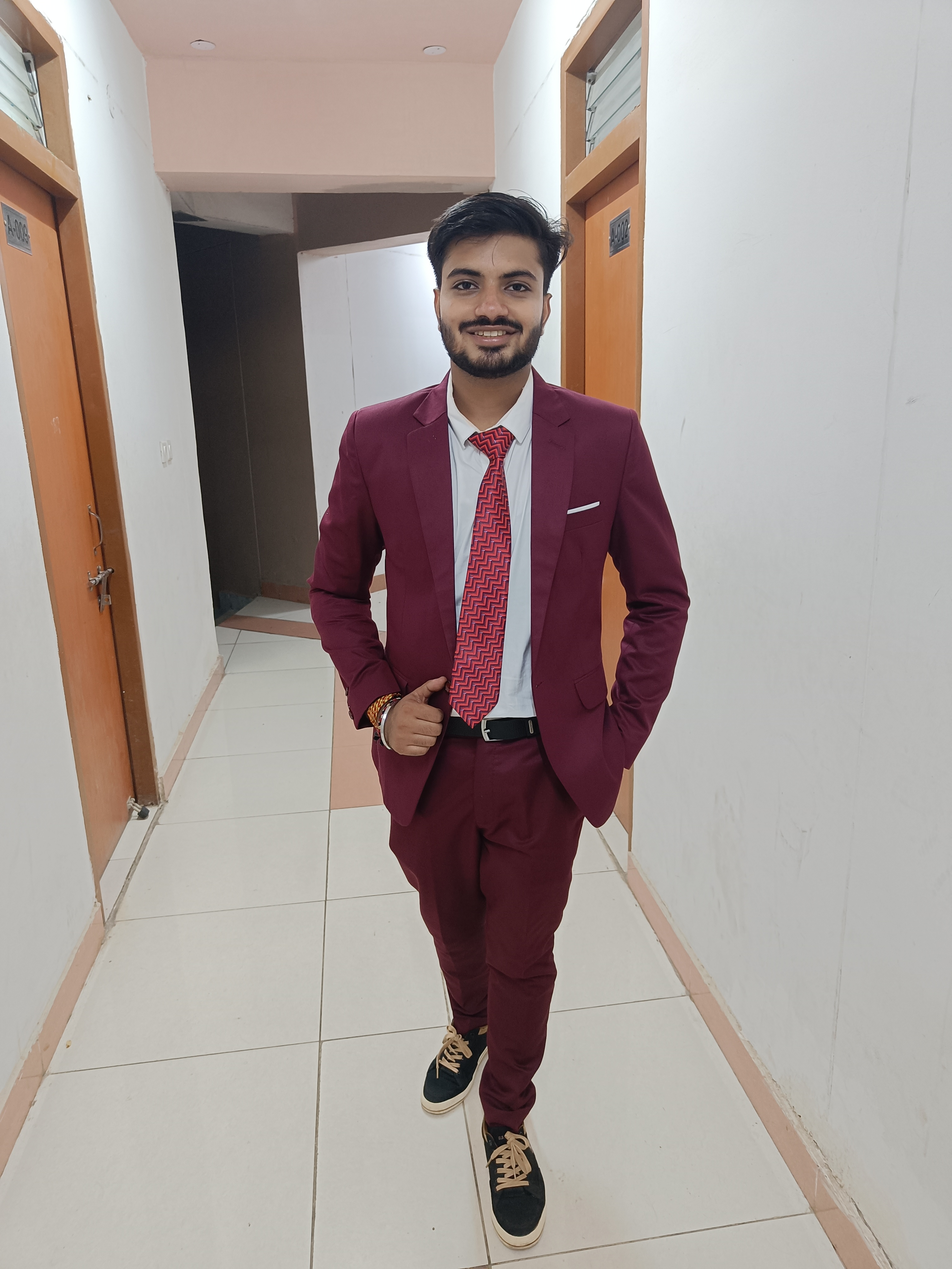
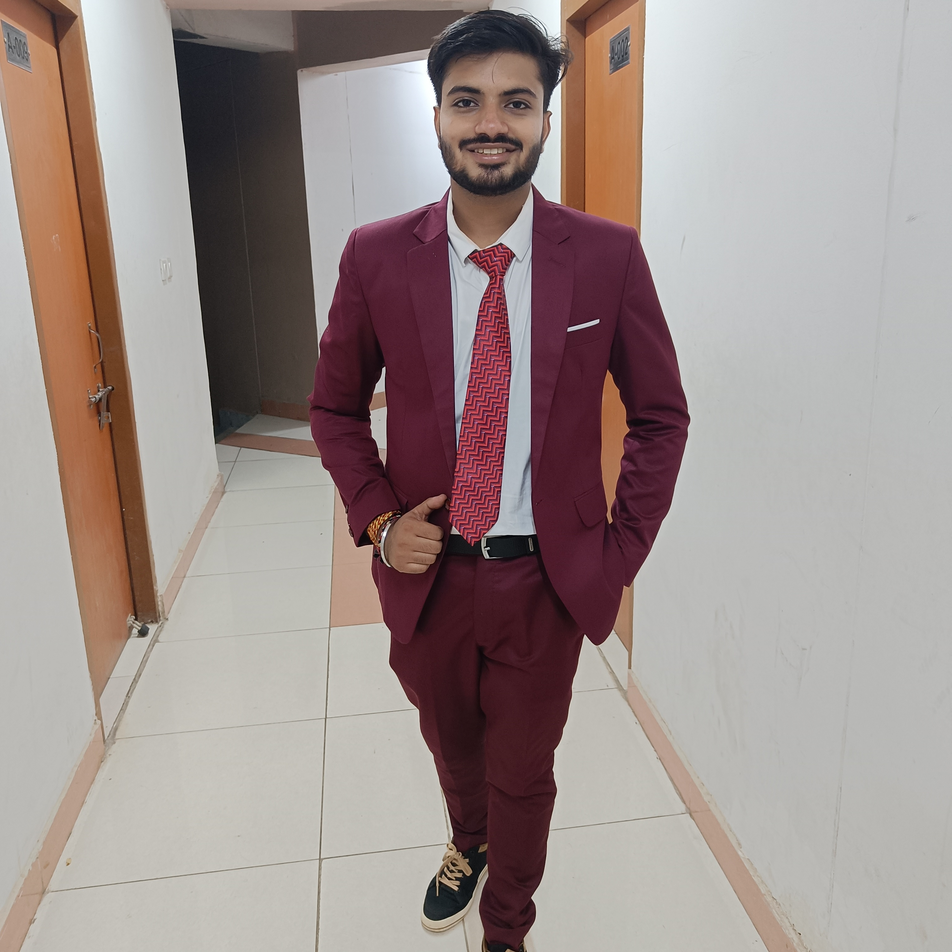
profile pic fixed

diff --git a/developers.html b/developers.html
@@ -276,7 +276,7 @@
         <!--Profile Syahi2-->
         <div class="com-member">
             <div class="picture">
-                <img class="img-fluid" src="img/committee/IMG_20230302_233935_044 - Abhilasha Mishra.jpg" alt="img">
+                <img class="img-fluid" src="img/committee/Abhilasha Mishra.jpg" alt="img">
             </div>
             <div class="card-content">
                 <h3 class="name">Abhilasha</h3>
@@ -318,7 +318,7 @@
         <!--Profile EXOUSIA2-->
         <div class="com-member">
             <div class="picture">
-                <img class="img-fluid" src="img/committee/Screenshot 2023-05-18 at 1.55.32 PM - Mukund Sharma.png" alt="img">
+                <img class="img-fluid" src="img/committee/Mukund Sharma.jpg" alt="img">
             </div>
             <div class="card-content">
                 <h3 class="name">Mukund Sharma</h3>
@@ -342,7 +342,7 @@
         <!--Profile Card PIXXEL-->
         <div class="com-member">
             <div class="picture">
-                <img class="img-fluid" src="img/committee/IMG_7069 - Ankit Kumar (1).jpg" alt="img">
+                <img class="img-fluid" src="img/committee/Ankit Kumar.jpg" alt="img">
             </div>
             <div class="card-content">
                 <h3 class="name">Ankit Kumar</h3>
@@ -384,7 +384,7 @@
         <!--Profile Card Yavanika-->
         <div class="com-member">
             <div class="picture">
-                <img class="img-fluid" src="img/committee/IMG_20230607_003010 - Anurag Das Group.jpg" alt="img">
+                <img class="img-fluid" src="img/committee/Anurag Das Group.jpg" alt="img">
             </div>
             <div class="card-content">
                 <h3 class="name">Anurag Das Group</h3>
@@ -404,7 +404,7 @@
         <!--Profile Yavanika 2-->
         <div class="com-member">
             <div class="picture">
-                <img class="img-fluid" src="img/committee/IMG_20210320_164155_964 - vishesh sahu (1).jpg" alt="img">
+                <img class="img-fluid" src="img/committee/vishesh sahu.jpg" alt="img">
             </div>
             <div class="card-content">
                 <h3 class="name">Vishesh Sahu</h3>
@@ -427,7 +427,7 @@
         <!--Profile Card Hexachrome-->
         <div class="com-member">
             <div class="picture">
-                <img class="img-fluid" src="img/committee/IMG_20230607_004100 - 2101MM17 PRATYUSH MANAS.jpg" alt="img">
+                <img class="img-fluid" src="img/committee/PRATYUSH MANAS.jpg" alt="img">
             </div>
             <div class="card-content">
                 <h3 class="name">Pratyush Manas</h3>
@@ -447,7 +447,7 @@
         <!--Profile ARIA-->
         <div class="com-member">
             <div class="picture">
-                <img class="img-fluid" src="img/committee/IMG_20230607_135500 - Anshu.jpg" alt="img">
+                <img class="img-fluid" src="img/committee/Anshu.jpg" alt="img">
             </div>
             <div class="card-content">
                 <h3 class="name">Anshu Nauwala</h3>
@@ -493,7 +493,7 @@
         <!--Profile Quiz club 2-->
         <div class="com-member">
             <div class="picture">
-                <img class="img-fluid" src="img/committee/20220814_162217 - Siddhant Senapati.jpg" alt="img">
+                <img class="img-fluid" src="img/committee/Siddhant Senapati.jpg" alt="img">
             </div>
             <div class="card-content">
                 <h3 class="name">Siddhant Senapati</h3>
@@ -516,7 +516,7 @@
         <!--Profile Card HOOT-->
         <div class="com-member">
             <div class="picture">
-                <img class="img-fluid" src="img/committee/Akash - Akash Sinha.jpg" alt="img">
+                <img class="img-fluid" src="img/committee/Akash Sinha.jpg" alt="img">
             </div>
             <div class="card-content">
                 <h3 class="name">Akash Sinha</h3>
@@ -536,7 +536,7 @@
         <!--Profile HOOT2-->
         <div class="com-member">
             <div class="picture">
-                <img class="img-fluid" src="img/committee/Rishikant Chigrupaatii.jpeg" alt="img">
+                <img class="img-fluid" src="img/committee/Rishikant Chigrupaatii.jpg" alt="img">
             </div>
             <div class="card-content">
                 <h3 class="name">Rishikant Chigrupaatii </h3>
@@ -559,7 +559,7 @@
         <!--Profile CarD ANIME CLUB-->
         <div class="com-member">
             <div class="picture">
-                <img class="img-fluid" src="img/committee/IMG-20221005-WA0037 - Sahil Agrawal.jpg" alt="img">
+                <img class="img-fluid" src="img/committee/Sahil Agrawal.jpg" alt="img">
             </div>
             <div class="card-content">
                 <h3 class="name">Sahil Agrawal</h3>
@@ -579,7 +579,7 @@
         <!--Profile ANIME CLUB-->
         <div class="com-member">
             <div class="picture">
-                <img class="img-fluid" src="img/committee/IMG-20230607-WA0000 - Ash Wankhede.jpg" alt="img">
+                <img class="img-fluid" src="img/committee/Ash Wankhede.jpg" alt="img">
             </div>
             <div class="card-content">
                 <h3 class="name">Prashik Wankhede</h3>
@@ -600,7 +600,7 @@
         <!--Profile Card Vincestroke-->
         <div class="com-member">
             <div class="picture">
-                <img class="img-fluid" src="img/committee/73CB4BC6-8D3C-4A2A-8DC1-553FA0523C41 - lR Vikramaditya.jpeg" alt="img">
+                <img class="img-fluid" src="img/committee/Vikramaditya.jpg" alt="img">
             </div>
             <div class="card-content">
                 <h3 class="name">Vikramaditya</h3>
@@ -620,7 +620,7 @@
         <!--Profile VINCESTROKE2-->
         <div class="com-member">
             <div class="picture">
-                <img class="img-fluid" src="img/committee/IMG_20230607_002520 - Ishani Sharma.jpg" alt="img">
+                <img class="img-fluid" src="img/committee/Ishani Sharma.jpg" alt="img">
             </div>
             <div class="card-content">
                 <h3 class="name">Ishani Sharma</h3>
@@ -639,7 +639,7 @@
         <!--Profile VINCESTROKE3-->
         <div class="com-member">
             <div class="picture">
-                <img class="img-fluid" src="img/committee/IMG_20221030_012509840 - Bhavika Choudhary.jpg" alt="img">
+                <img class="img-fluid" src="img/committee/Bhavika Choudhary.jpg" alt="img">
             </div>
             <div class="card-content">
                 <h3 class="name">Bhavika Choudhary </h3>

diff --git a/committee.html b/committee.html
@@ -126,7 +126,7 @@
 <!--Profile Card Gen-Sec-->
 <div class="com-member">
   <div class="picture">
-    <img class="img-fluid" src="img/committee/DSC_8042 - Chirag Bhardwaj.JPG" alt="Gen-Sec">
+    <img class="img-fluid" src="img/committee/Chirag_Bhardwaj.jpg" alt="Gen-Sec">
   </div>
   <div class="card-content">
     <h3 class="name">Chirag Bhardwaj</h3>
@@ -146,7 +146,7 @@
     <!--Profile Card PG Boys Secretary-->
     <div class="com-member">
       <div class="picture">
-        <img class="img-fluid" src="img/committee/IMG_20230205_005221 - Nikhil Dev Shrivastava.jpg" alt="PGBS">
+        <img class="img-fluid" src="img/committee/Nikhil Dev Shrivastava.jpg" alt="PGBS">
       </div>
       <div class="card-content">
         <h3 class="name">Nikhil Dev Shrivastava</h3>
@@ -184,7 +184,7 @@
     <!--Profile Card Sr. year Secretary-->
     <div class="com-member">
       <div class="picture">
-        <img class="img-fluid" src="img/committee/tarun meruga.jpg" alt="SYS">
+        <img class="img-fluid" src="img/committee/tarun meruga(1).jpg" alt="SYS">
       </div>
       <div class="card-content">
         <h3 class="name">Tarun Meruga</h3>
